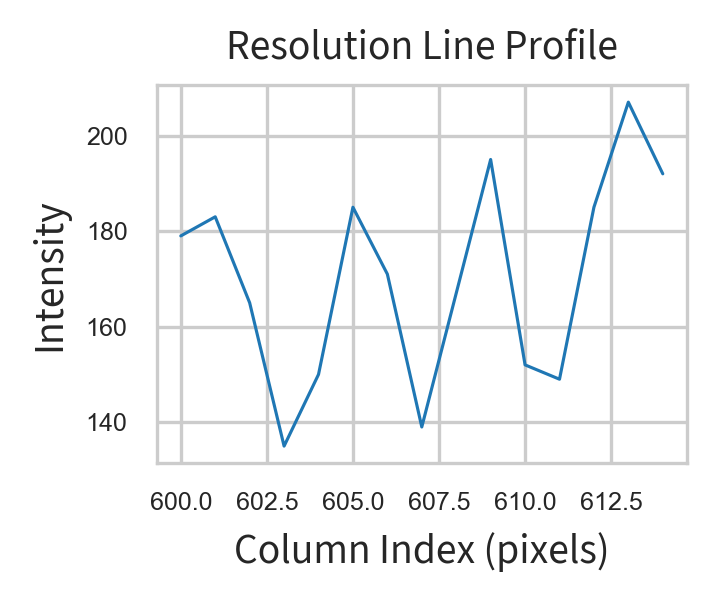
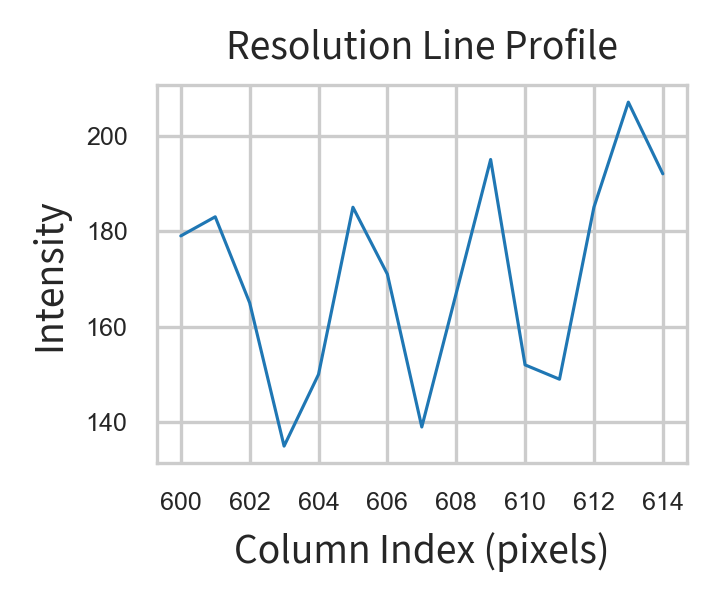
updated plotting rules for usaf resolution

diff --git a/src/analysis/resolution_line_profile.py b/src/analysis/resolution_line_profile.py
@@ -12,6 +12,7 @@ import numpy as np
 import matplotlib.pyplot as plt
 import seaborn as sns
 from matplotlib.font_manager import FontProperties
+from matplotlib.ticker import MaxNLocator
 from datetime import datetime
 
 # Local imports
@@ -86,6 +87,9 @@ def analyze_resolution_profile(image_path, profile_row=566, profile_col_start=60
     
     # Plot the profile using original column indices
     ax.plot(x_values, profile, linewidth=0.75, color='#1f77b4')
+    
+    # Set x-axis to use integer ticks only
+    ax.xaxis.set_major_locator(MaxNLocator(integer=True))
     
     # Set plot labels and title with the appropriate font
     if source_sans:
